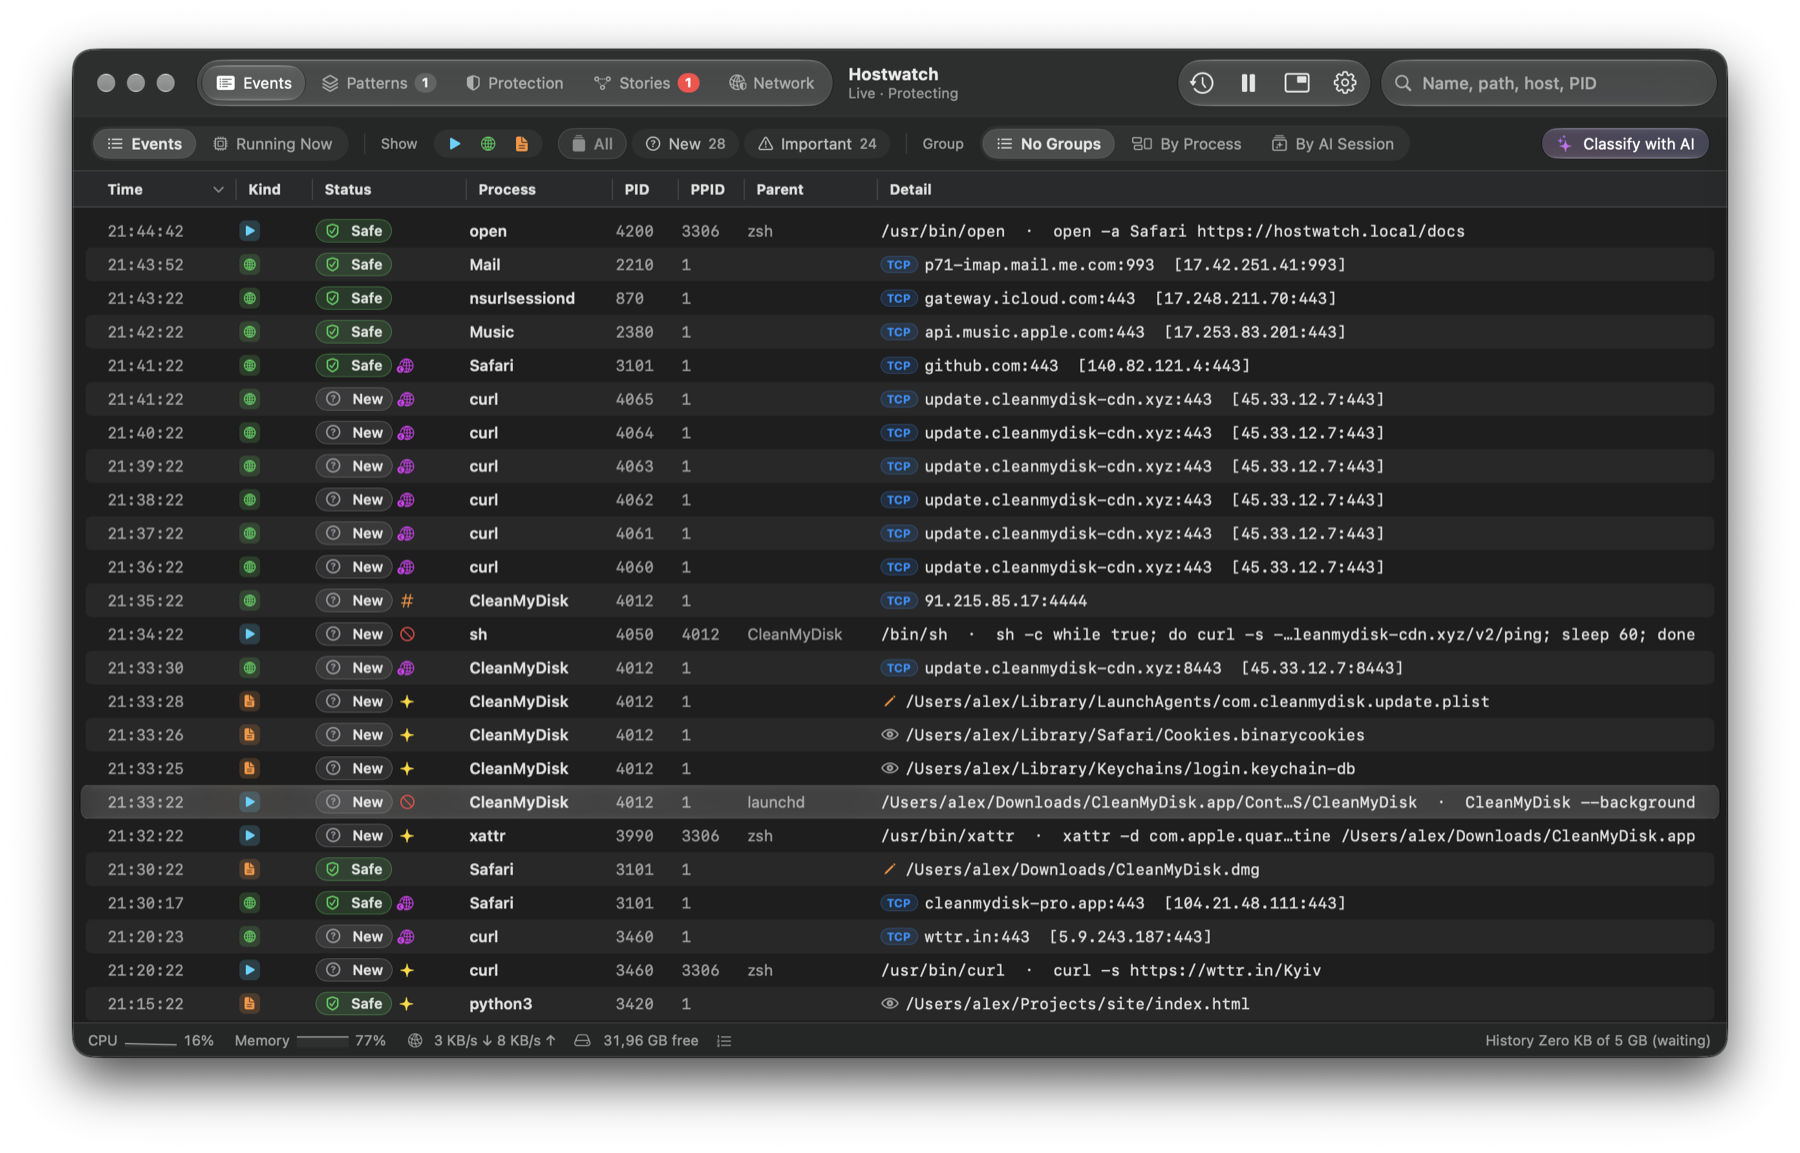
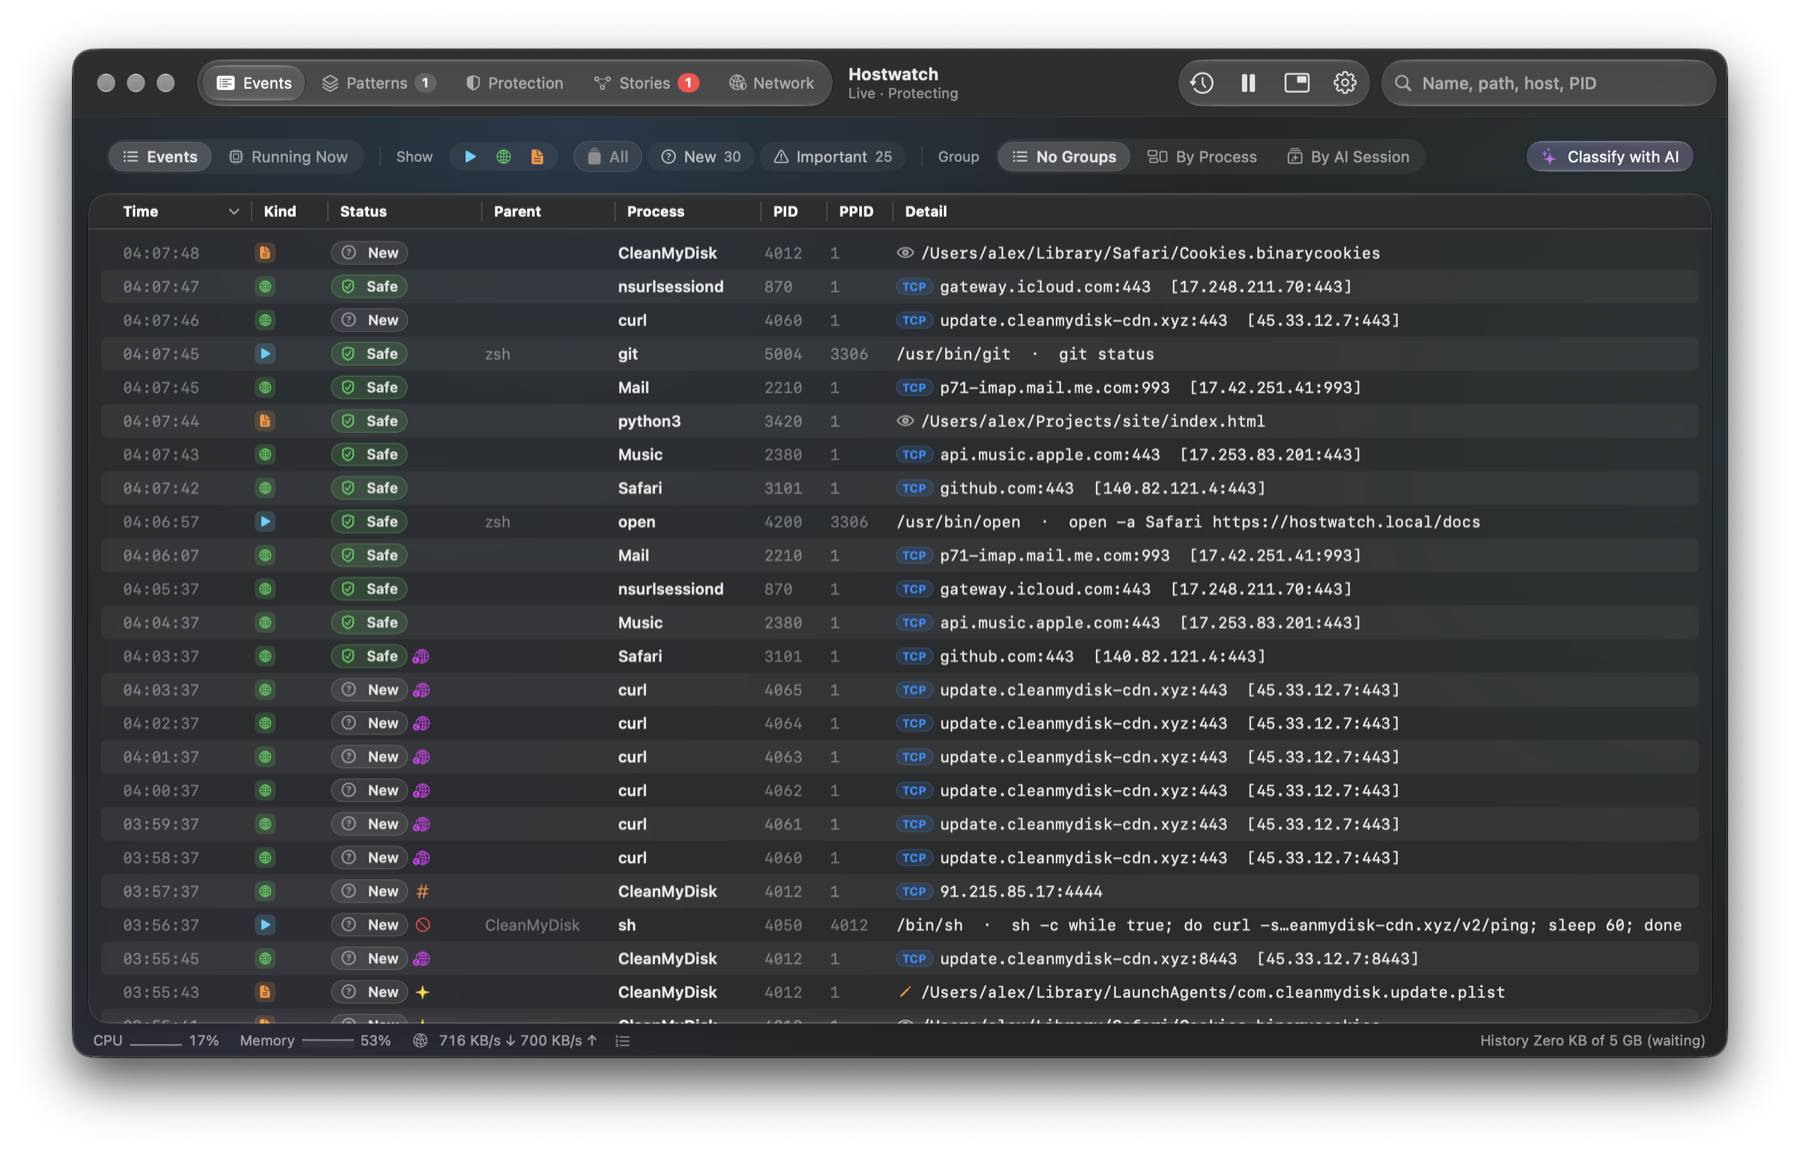
Screenshots for 0.22.0: Events, Running Now and Patterns in their new look, no HUD in the README

Changed region(s): [[0.0311, 0.0937, 0.9644, 0.9055], [0.84, 0.0937, 0.9644, 0.1561]]

diff --git a/README.md b/README.md
@@ -37,10 +37,6 @@
   <img src="docs/images/site/network.png" alt="Hostwatch network map: who reaches this Mac, what goes out, the way out and the destinations">
 </p>
 
-<p align="center">
-  <img src="docs/images/site/hud.png" width="360" alt="Hostwatch HUD: live processes, connections and file opens, with a story on top">
-</p>
-
 <p align="center"><sub>Screenshots show made-up demo data.</sub></p>
 
 ---
